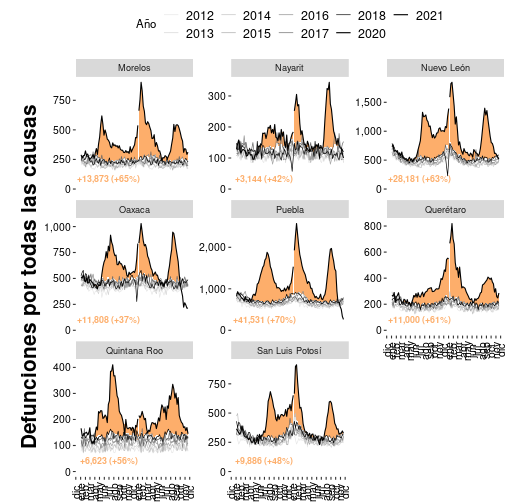
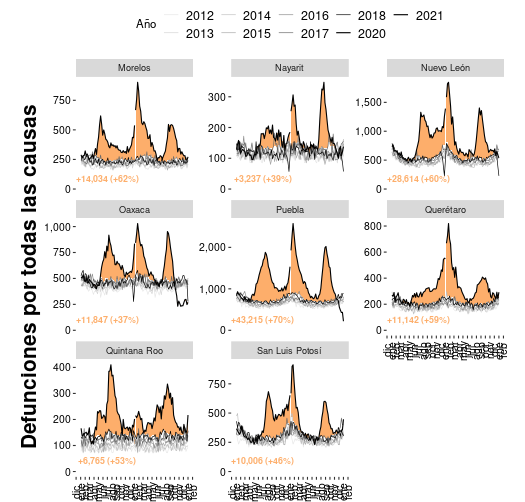
Actualización exceso de mortalidad 2022-02-03

diff --git a/content/muertes/exceso_mortalidad_nacional.md b/content/muertes/exceso_mortalidad_nacional.md
@@ -11,9 +11,9 @@ son diagnosticadas. En
 <a href="https://www.economist.com/graphic-detail/2020/07/15/tracking-covid-19-excess-deaths-across-countries">países</a>
 se ha observado que la pandemia provoca un <i>exceso de mortalidad</i>.</p>
 
-<p>En México, tenemos datos hasta hasta el 11 de noviembre.
+<p>En México, tenemos datos hasta hasta el 1 de enero de 2022.
 En el acumulado de <i>exceso de mortalidad</i> de toda la pandemia,
-se registraron <b>58% más defunciones</b> que en el mismo periodo de años
+se registraron <b>55% más defunciones</b> que en el mismo periodo de años
 previos.
 Estos números son preliminares ya que el catálogo nacional de defunciones
 tarda dos años en finalizarse.</p>

diff --git a/content/muertes/exceso_mortalidad_estados2.md b/content/muertes/exceso_mortalidad_estados2.md
@@ -8,7 +8,7 @@ medir el costo humano en cada entidad.</p>
 
 <p>Estas gráficas muestran el
 <a href="#exceso_mortalidad_nacional"><i>exceso de mortalidad</i></a>
-con datos hasta el 11 de noviembre de 2021 para 24 de las 32 entidades federativas del país.
+con datos hasta el 1 de enero de 2022 para 24 de las 32 entidades federativas del país.
 La región con color indica las semanas con <i>exceso de mortalidad</i>.
 Se indica el número absoluto de exceso de mortalidad para canda entidad y el
 incremento porcentual. Las entidades federativas están organizadas

diff --git a/content/muertes/exceso_mortalidad_estados4.md b/content/muertes/exceso_mortalidad_estados4.md
@@ -8,7 +8,7 @@ medir el costo humano en cada entidad.</p>
 
 <p>Estas gráficas muestran el
 <a href="#exceso_mortalidad_nacional"><i>exceso de mortalidad</i></a>
-con datos hasta el 11 de noviembre de 2021 para 24 de las 32 entidades federativas del país.
+con datos hasta el 1 de enero de 2022 para 24 de las 32 entidades federativas del país.
 La región con color indica las semanas con <i>exceso de mortalidad</i>.
 Se indica el número absoluto de exceso de mortalidad para canda entidad y el
 incremento porcentual. Las entidades federativas están organizadas

diff --git a/content/muertes/exceso_mortalidad_estados1.md b/content/muertes/exceso_mortalidad_estados1.md
@@ -8,7 +8,7 @@ medir el costo humano en cada entidad.</p>
 
 <p>Estas gráficas muestran el
 <a href="#exceso_mortalidad_nacional"><i>exceso de mortalidad</i></a>
-con datos hasta el 11 de noviembre para 8 de las 32 entidades federativas del país.
+con datos hasta el 1 de enero de 2022 para 8 de las 32 entidades federativas del país.
 La región con color indica las semanas con <i>exceso de mortalidad</i>.
 Se indica el número absoluto de exceso de mortalidad para canda entidad y el
 incremento porcentual. Las entidades federativas están organizadas

diff --git a/content/muertes/exceso_mortalidad_estados3.md b/content/muertes/exceso_mortalidad_estados3.md
@@ -8,7 +8,7 @@ medir el costo humano en cada entidad.</p>
 
 <p>Estas gráficas muestran el
 <a href="#exceso_mortalidad_nacional"><i>exceso de mortalidad</i></a>
-con datos hasta el 11 de noviembre para 24 de las 32 entidades federativas del país.
+con datos hasta el 1 de enero de 2022 de las 32 entidades federativas del país.
 La región con color indica las semanas con <i>exceso de mortalidad</i>.
 Se indica el número absoluto de exceso de mortalidad para canda entidad y el
 incremento porcentual. Las entidades federativas están organizadas
